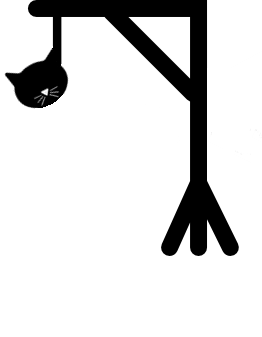
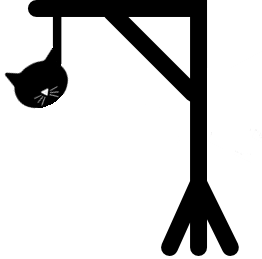
imgs

Changed region(s): [[0.6107, 0.5251, 0.916, 0.9884], [0.0916, 0.0, 0.7328, 0.4015], [0.0, 0.1236, 0.2748, 0.4324]]

diff --git a/app.rb b/app.rb
@@ -2,15 +2,19 @@ require 'sinatra'
 
 $guess= Array.new
 $word = "gatuno".split('')
+$trials=0
+$image=''
 
 get '/' do
 	$guess = Array.new
 	$word.each {$guess.push('_')}
+	$trials=0
   erb :index
 end
 
 
 get '/play' do
+	$image="<img id='logo' src='"+"/images/intento "+$trials.to_s+".png'>"
 	erb :play
 end
 
@@ -18,6 +22,9 @@ post '/play' do
 	$letter = params[:letter]
 	if $word.include?($letter)
 		(0..($word.size-1)).each {|x| $guess[x]=$letter unless $word[x]!=$letter}
+	else
+		$trials+=1
+		$image="<img id='logo' src='"+"/images/intento "+$trials.to_s+".png'>"
 	end
 	erb :play
 end
